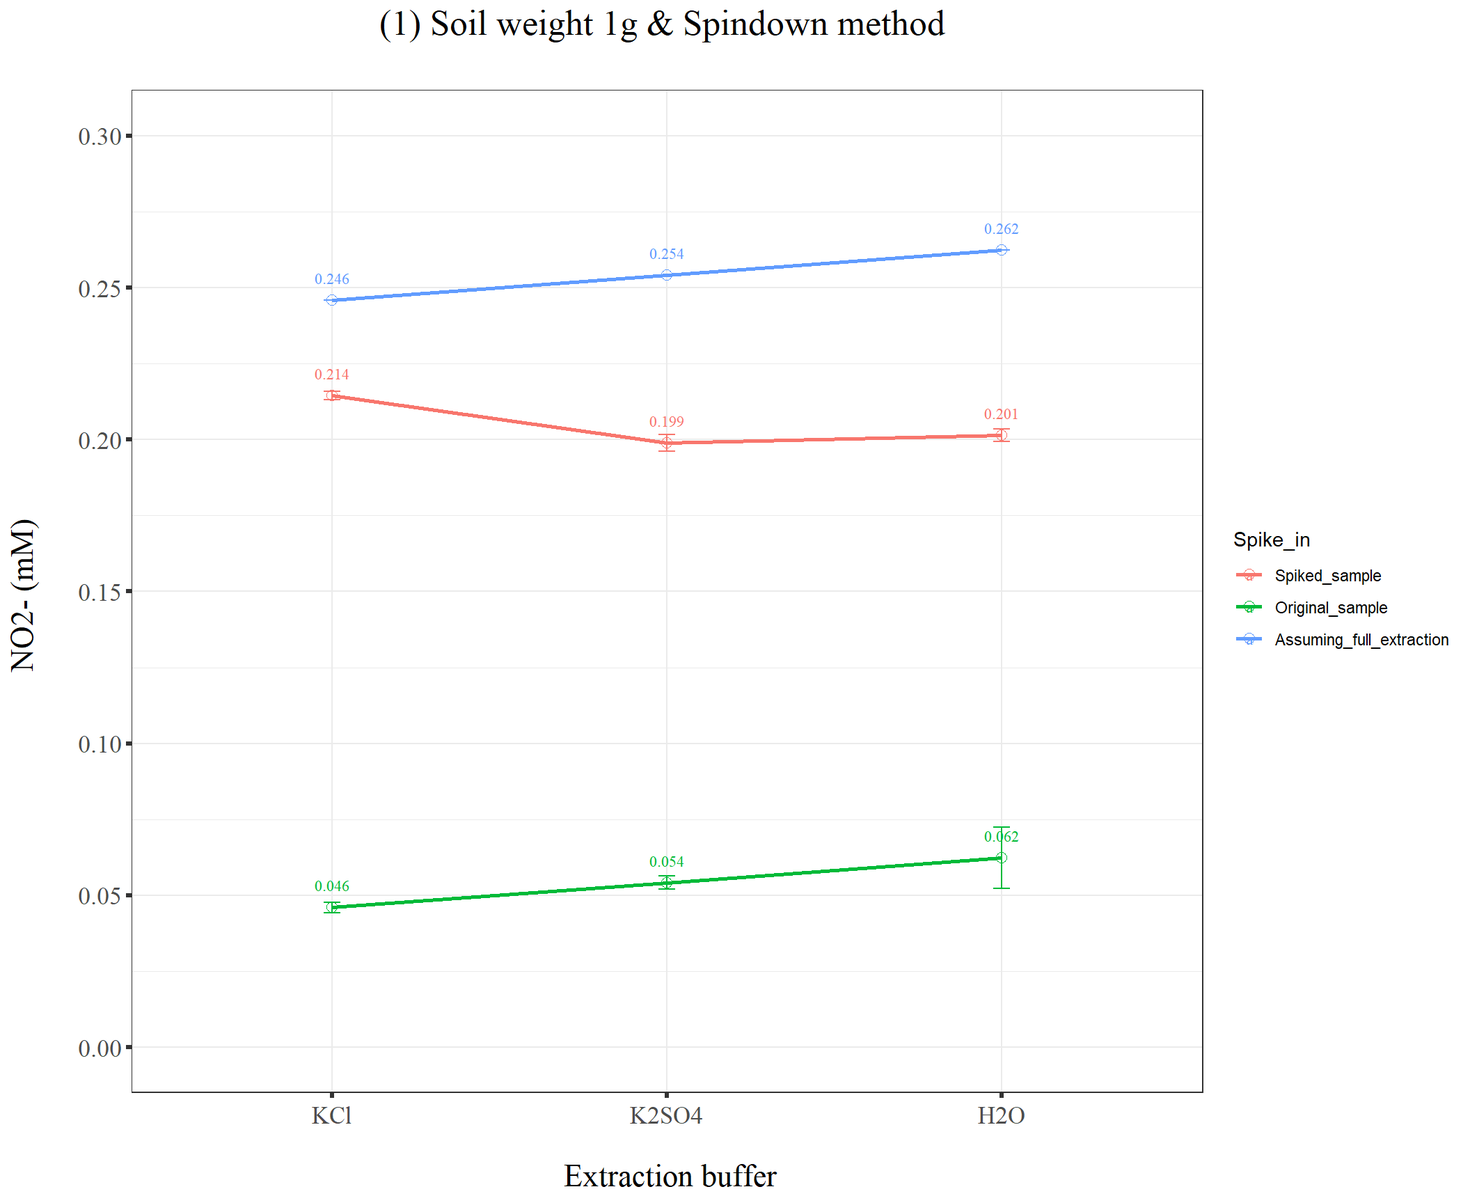
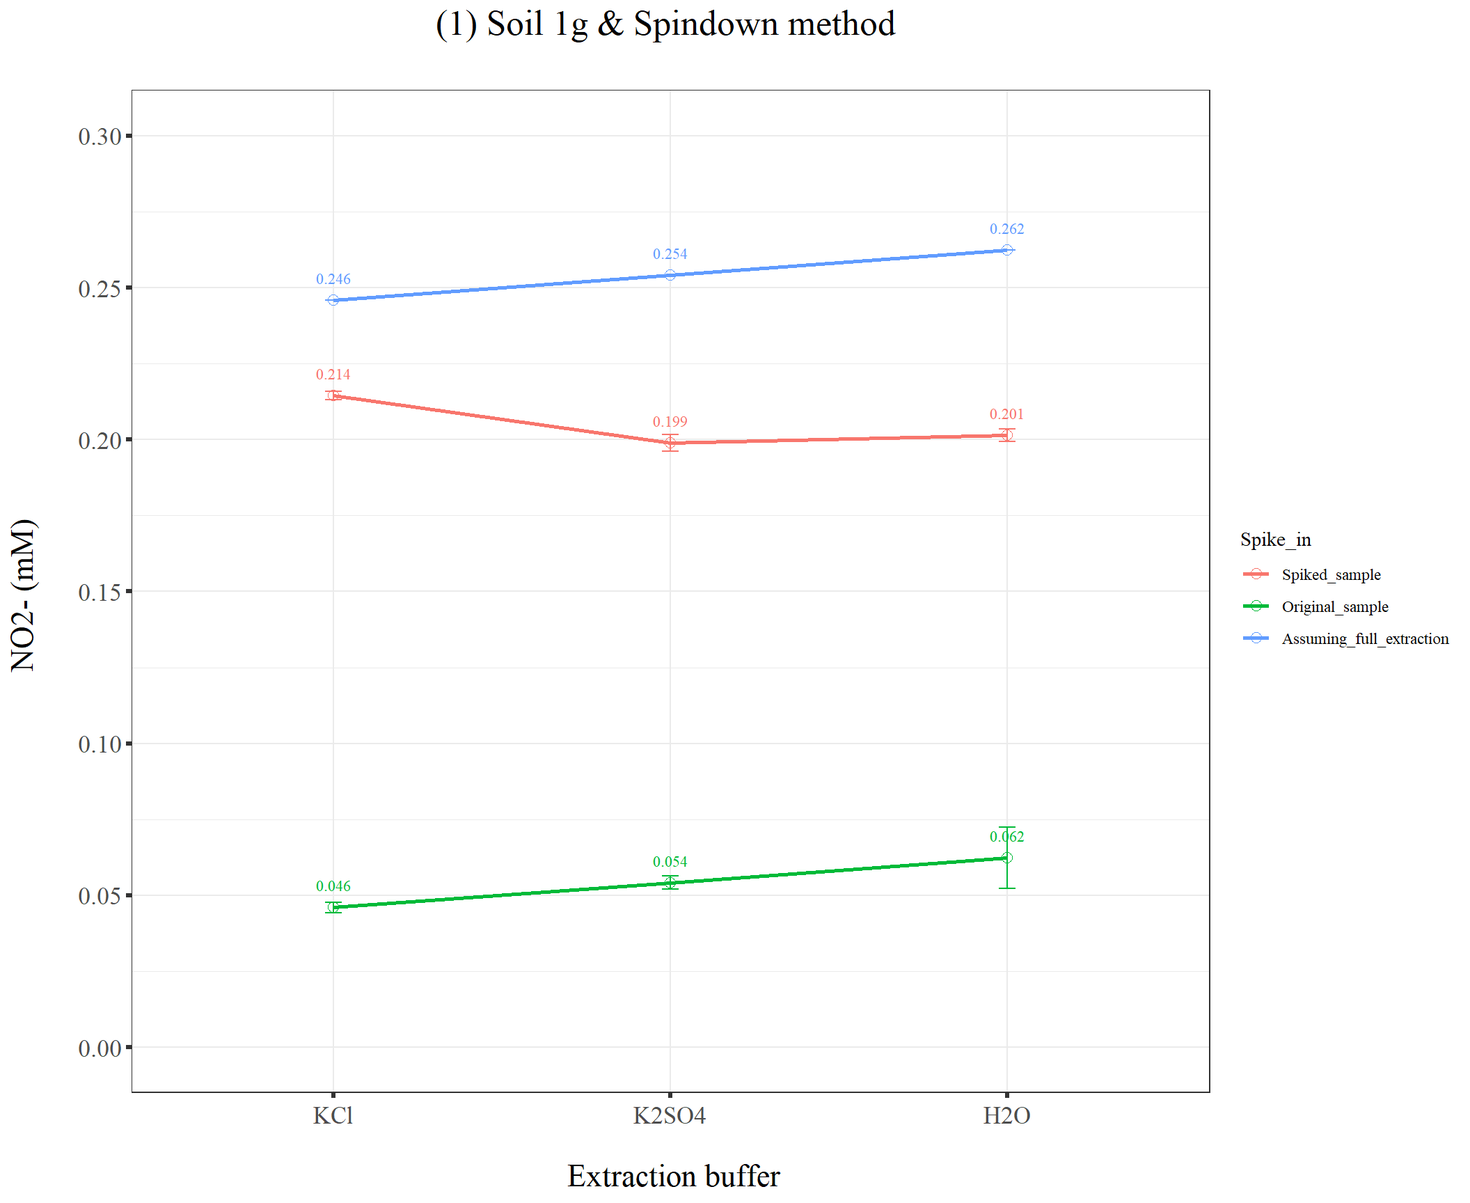
Build site.

diff --git a/docs/Soil_extraction_method_Griess.html b/docs/Soil_extraction_method_Griess.html
@@ -476,25 +476,32 @@ This reproducible <a href="http://rmarkdown.rstudio.com">R Markdown</a> analysis
 <div class="panel panel-default">
 <div class="panel-heading">
 <p class="panel-title">
-<a data-toggle="collapse" data-parent="#workflowr-checks" href="#strongRepositoryversionstrongahrefhttpsgithubcomKiseokUchicagoDenitvisualizationRtree61dee2a64ccfe50a1972f31b677294dcd677fd09targetblank61dee2aa"> <span class="glyphicon glyphicon-ok text-success" aria-hidden="true"></span> <strong>Repository version:</strong> <a href="https://github.com/KiseokUchicago/Denit_visualization_R/tree/61dee2a64ccfe50a1972f31b677294dcd677fd09" target="_blank">61dee2a</a> </a>
+<a data-toggle="collapse" data-parent="#workflowr-checks" href="#strongRepositoryversionstrongahrefhttpsgithubcomKiseokUchicagoDenitvisualizationRtree715b4adcee0ef2004090a8a02ad2d9f29b4a2e40targetblank715b4ada"> <span class="glyphicon glyphicon-ok text-success" aria-hidden="true"></span> <strong>Repository version:</strong> <a href="https://github.com/KiseokUchicago/Denit_visualization_R/tree/715b4adcee0ef2004090a8a02ad2d9f29b4a2e40" target="_blank">715b4ad</a> </a>
 </p>
 </div>
[2 lines of base64/hex data omitted]
 <div class="panel-body">
 <p>
 Great! You are using Git for version control. Tracking code development and connecting the code version to the results is critical for reproducibility.
 </p>
 <p>
-The results in this page were generated with repository version <a href="https://github.com/KiseokUchicago/Denit_visualization_R/tree/61dee2a64ccfe50a1972f31b677294dcd677fd09" target="_blank">61dee2a</a>. See the <em>Past versions</em> tab to see a history of the changes made to the R Markdown and HTML files.
+The results in this page were generated with repository version <a href="https://github.com/KiseokUchicago/Denit_visualization_R/tree/715b4adcee0ef2004090a8a02ad2d9f29b4a2e40" target="_blank">715b4ad</a>. See the <em>Past versions</em> tab to see a history of the changes made to the R Markdown and HTML files.
 </p>
 <p>
 Note that you need to be careful to ensure that all relevant files for the analysis have been committed to Git prior to generating the results (you can use <code>wflow_publish</code> or <code>wflow_git_commit</code>). workflowr only checks the R Markdown file, but you know if there are other scripts or data files that it depends on. Below is the status of the Git repository when the results were generated:
 </p>
 <pre><code>
 Ignored files:
+    Ignored:    .Rhistory
     Ignored:    .Rproj.user/
 
 Untracked files:
+    Untracked:  Rplot.pdf
+    Untracked:  Soil0.1g_filter.pdf
+    Untracked:  Soil0.1g_spindown_7_10.pdf
+    Untracked:  Soil1g_filter_7_10.pdf
+    Untracked:  Soil1g_spindown_7_10.pdf
+    Untracked:  Soil1g_whatman_7_10.pdf
     Untracked:  data/210922_Griess_sample_plate1-investigating.xlsx
     Untracked:  data/210922_Griess_sample_plate1.xlsx
     Untracked:  data/dry_weight_curve(9.5.21).xlsx
@@ -541,6 +548,40 @@ Message
 </tr>
 </thead>
 <tbody>
+<tr>
+<td>
+Rmd
+</td>
+<td>
+<a href="https://github.com/KiseokUchicago/Denit_visualization_R/blob/715b4adcee0ef2004090a8a02ad2d9f29b4a2e40/analysis/Soil_extraction_method_Griess.Rmd" target="_blank">715b4ad</a>
+</td>
+<td>
+KiseokUchicago
+</td>
+<td>
+2021-09-24
+</td>
+<td>
+wflow_publish(“analysis/Soil_extraction_method_Griess.Rmd”)
+</td>
+</tr>
+<tr>
+<td>
+html
+</td>
+<td>
+<a href="https://rawcdn.githack.com/KiseokUchicago/Denit_visualization_R/39bfa16bde709732443756bcff96cfd5ed50877a/docs/Soil_extraction_method_Griess.html" target="_blank">39bfa16</a>
+</td>
+<td>
+KiseokUchicago
+</td>
+<td>
+2021-09-24
+</td>
+<td>
+Build site.
+</td>
+</tr>
 <tr>
 <td>
 Rmd
@@ -656,6 +697,7 @@ library(stringr)
 
 ## theme for ggplot
 mytheme &lt;- theme_bw() + 
+  theme(text = element_text(family=&quot;serif&quot;)) +
   theme(plot.title = element_text(size = 19,hjust = 0.5, family=&quot;serif&quot;)) + 
   theme(axis.title.x = element_text(size = 17,hjust = 0.5, family=&quot;serif&quot;)) + 
   theme(axis.title.y = element_text(size = 17,hjust = 0.5, family=&quot;serif&quot;)) + 
@@ -666,6 +708,7 @@ mytheme &lt;- theme_bw() +
   theme(axis.ticks = element_line(size = 1.1))
 
 mytheme_2d &lt;- theme_bw() + 
+  theme(text = element_text(family=&quot;serif&quot;)) +
   theme(plot.title = element_text(size = 19,hjust = 0.5, family=&quot;serif&quot;)) + 
   theme(axis.title.x = element_text(size = 17,hjust = 0.5, family=&quot;serif&quot;)) + 
   theme(axis.title.y = element_text(size = 17,hjust = 0.5, family=&quot;serif&quot;)) + 
@@ -861,7 +904,7 @@ Levels: Spiked_sample Original_sample Assuming_full_extraction</code></pre>
 </div>
 <div id="plot-data" class="section level2">
 <h2>3. Plot data</h2>
-<p>4 graphs: (1) 1g &amp; Spindown method (2) 0.1g &amp; Spindown method (3) 1g &amp; filtered method (4) 0.1g &amp; Spindown method</p>
+<p>4 graphs: (1) Soil 1g &amp; Spindown method (2) Soil 0.1g &amp; Spindown method (3) Soil 1g &amp; filtered(0.22um) method (4) Soil 0.1g &amp; filtered(0.22um) method (5) Soil 1g &amp; Whatman no.42 paper filtered</p>
 <pre class="r"><code># First, let&#39;s see extraction efficiency soil NO2
 
 # (1) 1g &amp; Spindown method
@@ -903,28 +946,241 @@ Levels: Spiked_sample Original_sample Assuming_full_extraction</code></pre>
   ylab(&quot;NO2- (mM) \n&quot;) +
   xlab(&quot;\n Extraction buffer&quot;) +
   scale_y_continuous(breaks = seq(0,0.3,0.05), limits=c(0, 0.3))+
-  ggtitle(&quot;(1) Soil weight 1g &amp; Spindown method \n&quot;) +
+  ggtitle(&quot;(1) Soil 1g &amp; Spindown method \n&quot;) +
   # label
-  geom_text(aes(label = round(Ave_NO2_mM,3)), size = 3, vjust = -1.5, family=&quot;serif&quot;)+
+  geom_text(aes(label = round(Ave_NO2_mM,3)), size = 3, vjust = -1.5, family=&quot;serif&quot;, show.legend = FALSE)+
   mytheme_2d</code></pre>
 <p><img src="figure/Soil_extraction_method_Griess.Rmd/unnamed-chunk-4-1.png" width="1056" style="display: block; margin: auto;" /></p>
-<pre class="r"><code># (2) 
-
-
-# (1) plot
-ggplot(df_extract, aes(x=Method, y=pH, color=Solution, group=Solution)) +
+<pre class="r"><code># (2) Soil 0.1g &amp; Spindown method
+colnames(df_NO2NO3)</code></pre>
+<pre><code> [1] &quot;Sample&quot;        &quot;Buffer&quot;        &quot;Soil_weight&quot;   &quot;Method&quot;       
+ [5] &quot;Spike_in&quot;      &quot;Ave_NO2_mM&quot;    &quot;Std_NO2_mM&quot;    &quot;Ave_NO2NO3_mM&quot;
+ [9] &quot;Std_NO2NO3_mM&quot; &quot;Ave_NO3_mM&quot;    &quot;Std_NO3_mM&quot;   </code></pre>
+<pre class="r"><code>df_spin0.1 &lt;- df_NO2NO3 %&gt;% filter(Method == &quot;Spindown&quot;, Soil_weight ==0.1)
+dim(df_spin0.1)</code></pre>
+<pre><code>[1]  9 11</code></pre>
+<pre class="r"><code>head(df_spin0.1)</code></pre>
+<pre><code># A tibble: 6 x 11
+  Sample  Buffer Soil_weight Method Spike_in Ave_NO2_mM Std_NO2_mM Ave_NO2NO3_mM
+  &lt;chr&gt;   &lt;fct&gt;        &lt;dbl&gt; &lt;chr&gt;  &lt;fct&gt;         &lt;dbl&gt;      &lt;dbl&gt;         &lt;dbl&gt;
+1 H2O_0.~ H2O            0.1 Spind~ Origina~     0.0568   0.00101          0.165
+2 H2O_0.~ H2O            0.1 Spind~ Spiked_~     0.211    0.0125           0.503
+3 K2SO4_~ K2SO4          0.1 Spind~ Origina~     0.0561   0.00324          0.149
+4 K2SO4_~ K2SO4          0.1 Spind~ Spiked_~     0.207    0.0122           0.506
+5 KCl_0.~ KCl            0.1 Spind~ Origina~     0.0457   0.000791         0.161
+6 KCl_0.~ KCl            0.1 Spind~ Spiked_~     0.214    0.00497          0.529
+# ... with 3 more variables: Std_NO2NO3_mM &lt;dbl&gt;, Ave_NO3_mM &lt;dbl&gt;,
+#   Std_NO3_mM &lt;dbl&gt;</code></pre>
+<pre class="r"><code>df_spin0.1$Spike_in</code></pre>
+<pre><code>[1] Original_sample          Spiked_sample            Original_sample         
+[4] Spiked_sample            Original_sample          Spiked_sample           
+[7] Assuming_full_extraction Assuming_full_extraction Assuming_full_extraction
+Levels: Spiked_sample Original_sample Assuming_full_extraction</code></pre>
+<pre class="r"><code>df_spin0.1 %&gt;% filter(Spike_in == &quot;Assuming_full_extraction&quot;)</code></pre>
+<pre><code># A tibble: 3 x 11
+  Sample  Buffer Soil_weight Method Spike_in Ave_NO2_mM Std_NO2_mM Ave_NO2NO3_mM
+  &lt;chr&gt;   &lt;fct&gt;        &lt;dbl&gt; &lt;chr&gt;  &lt;fct&gt;         &lt;dbl&gt;      &lt;dbl&gt;         &lt;dbl&gt;
+1 H2O_0.~ H2O            0.1 Spind~ Assumin~      0.257          0         0.565
+2 K2SO4_~ K2SO4          0.1 Spind~ Assumin~      0.256          0         0.549
+3 KCl_0.~ KCl            0.1 Spind~ Assumin~      0.246          0         0.561
+# ... with 3 more variables: Std_NO2NO3_mM &lt;dbl&gt;, Ave_NO3_mM &lt;dbl&gt;,
+#   Std_NO3_mM &lt;dbl&gt;</code></pre>
+<pre class="r"><code>df_spin0.1 %&gt;% filter(Spike_in == &quot;Spiked_sample&quot;)</code></pre>
+<pre><code># A tibble: 3 x 11
+  Sample  Buffer Soil_weight Method Spike_in Ave_NO2_mM Std_NO2_mM Ave_NO2NO3_mM
+  &lt;chr&gt;   &lt;fct&gt;        &lt;dbl&gt; &lt;chr&gt;  &lt;fct&gt;         &lt;dbl&gt;      &lt;dbl&gt;         &lt;dbl&gt;
+1 H2O_0.~ H2O            0.1 Spind~ Spiked_~      0.211    0.0125          0.503
+2 K2SO4_~ K2SO4          0.1 Spind~ Spiked_~      0.207    0.0122          0.506
+3 KCl_0.~ KCl            0.1 Spind~ Spiked_~      0.214    0.00497         0.529
+# ... with 3 more variables: Std_NO2NO3_mM &lt;dbl&gt;, Ave_NO3_mM &lt;dbl&gt;,
+#   Std_NO3_mM &lt;dbl&gt;</code></pre>
+<pre class="r"><code>ggplot(df_spin0.1, aes(x=Buffer, y=Ave_NO2_mM, color=Spike_in, group=Spike_in)) +
   geom_point(size=2.5, shape=21) +
   geom_line(size=1)+
+  geom_errorbar(aes(ymin=Ave_NO2_mM - Std_NO2_mM, ymax=Ave_NO2_mM + Std_NO2_mM), width=.05)+
   scale_fill_brewer(palette=&#39;Set2&#39;) +
-  ylab(&quot;pH \n&quot;) +
-  xlab(&quot;\n Settling method&quot;) +
-  scale_y_continuous(breaks = seq(6,7,0.05), limits=c(6.1, 7))+
-  ggtitle(&quot;pH difference by method &amp; solution \n&quot;) +
+  ylab(&quot;NO2- (mM) \n&quot;) +
+  xlab(&quot;\n Extraction buffer&quot;) +
+  scale_y_continuous(breaks = seq(0,0.3,0.05), limits=c(0, 0.3))+
+  ggtitle(&quot;(2) Soil 0.1g &amp; Spindown method \n&quot;) +
   # label
-  geom_label()+
+  geom_text(aes(label = round(Ave_NO2_mM,3)), size = 3, vjust = -1.5, family=&quot;serif&quot;, show.legend = FALSE)+
   mytheme_2d</code></pre>
-<pre><code>Error in FUN(X[[i]], ...): object &#39;Solution&#39; not found</code></pre>
 <p><img src="figure/Soil_extraction_method_Griess.Rmd/unnamed-chunk-4-2.png" width="1056" style="display: block; margin: auto;" /></p>
+<pre class="r"><code># (3) Soil 1g &amp; filtered(0.22um) method
+colnames(df_NO2NO3)</code></pre>
+<pre><code> [1] &quot;Sample&quot;        &quot;Buffer&quot;        &quot;Soil_weight&quot;   &quot;Method&quot;       
+ [5] &quot;Spike_in&quot;      &quot;Ave_NO2_mM&quot;    &quot;Std_NO2_mM&quot;    &quot;Ave_NO2NO3_mM&quot;
+ [9] &quot;Std_NO2NO3_mM&quot; &quot;Ave_NO3_mM&quot;    &quot;Std_NO3_mM&quot;   </code></pre>
+<pre class="r"><code>df_NO2NO3$Method %&gt;% unique()</code></pre>
+<pre><code>[1] &quot;Filter&quot;   &quot;Spindown&quot; &quot;Whatman&quot; </code></pre>
+<pre class="r"><code>df_filt1 &lt;- df_NO2NO3 %&gt;% filter(Method == &quot;Filter&quot;, Soil_weight ==1)
+dim(df_filt1)</code></pre>
+<pre><code>[1]  9 11</code></pre>
+<pre class="r"><code>head(df_filt1)</code></pre>
+<pre><code># A tibble: 6 x 11
+  Sample  Buffer Soil_weight Method Spike_in Ave_NO2_mM Std_NO2_mM Ave_NO2NO3_mM
+  &lt;chr&gt;   &lt;fct&gt;        &lt;dbl&gt; &lt;chr&gt;  &lt;fct&gt;         &lt;dbl&gt;      &lt;dbl&gt;         &lt;dbl&gt;
+1 H2O_1g~ H2O              1 Filter Origina~     0.0437   0.000412         0.161
+2 H2O_1g~ H2O              1 Filter Spiked_~     0.225    0.00466          0.535
+3 K2SO4_~ K2SO4            1 Filter Origina~     0.0398   0.00105          0.163
+4 K2SO4_~ K2SO4            1 Filter Spiked_~     0.227    0.0111           0.535
+5 KCl_1g~ KCl              1 Filter Origina~     0.0328   0.00114          0.157
+6 KCl_1g~ KCl              1 Filter Spiked_~     0.233    0.00288          0.550
+# ... with 3 more variables: Std_NO2NO3_mM &lt;dbl&gt;, Ave_NO3_mM &lt;dbl&gt;,
+#   Std_NO3_mM &lt;dbl&gt;</code></pre>
+<pre class="r"><code>df_filt1$Spike_in</code></pre>
+<pre><code>[1] Original_sample          Spiked_sample            Original_sample         
+[4] Spiked_sample            Original_sample          Spiked_sample           
+[7] Assuming_full_extraction Assuming_full_extraction Assuming_full_extraction
+Levels: Spiked_sample Original_sample Assuming_full_extraction</code></pre>
+<pre class="r"><code>df_filt1 %&gt;% filter(Spike_in == &quot;Assuming_full_extraction&quot;)</code></pre>
+<pre><code># A tibble: 3 x 11
+  Sample  Buffer Soil_weight Method Spike_in Ave_NO2_mM Std_NO2_mM Ave_NO2NO3_mM
+  &lt;chr&gt;   &lt;fct&gt;        &lt;dbl&gt; &lt;chr&gt;  &lt;fct&gt;         &lt;dbl&gt;      &lt;dbl&gt;         &lt;dbl&gt;
+1 H2O_1g~ H2O              1 Filter Assumin~      0.244          0         0.561
+2 K2SO4_~ K2SO4            1 Filter Assumin~      0.240          0         0.563
+3 KCl_1g~ KCl              1 Filter Assumin~      0.233          0         0.557
+# ... with 3 more variables: Std_NO2NO3_mM &lt;dbl&gt;, Ave_NO3_mM &lt;dbl&gt;,
+#   Std_NO3_mM &lt;dbl&gt;</code></pre>
+<pre class="r"><code>df_filt1 %&gt;% filter(Spike_in == &quot;Spiked_sample&quot;)</code></pre>
+<pre><code># A tibble: 3 x 11
+  Sample  Buffer Soil_weight Method Spike_in Ave_NO2_mM Std_NO2_mM Ave_NO2NO3_mM
+  &lt;chr&gt;   &lt;fct&gt;        &lt;dbl&gt; &lt;chr&gt;  &lt;fct&gt;         &lt;dbl&gt;      &lt;dbl&gt;         &lt;dbl&gt;
+1 H2O_1g~ H2O              1 Filter Spiked_~      0.225    0.00466         0.535
+2 K2SO4_~ K2SO4            1 Filter Spiked_~      0.227    0.0111          0.535
+3 KCl_1g~ KCl              1 Filter Spiked_~      0.233    0.00288         0.550
+# ... with 3 more variables: Std_NO2NO3_mM &lt;dbl&gt;, Ave_NO3_mM &lt;dbl&gt;,
+#   Std_NO3_mM &lt;dbl&gt;</code></pre>
+<pre class="r"><code>ggplot(df_filt1, aes(x=Buffer, y=Ave_NO2_mM, color=Spike_in, group=Spike_in)) +
+  geom_point(size=2.5, shape=21) +
+  geom_line(size=1)+
+  geom_errorbar(aes(ymin=Ave_NO2_mM - Std_NO2_mM, ymax=Ave_NO2_mM + Std_NO2_mM), width=.05)+
+  scale_fill_brewer(palette=&#39;Set2&#39;) +
+  ylab(&quot;NO2- (mM) \n&quot;) +
+  xlab(&quot;\n Extraction buffer&quot;) +
+  scale_y_continuous(breaks = seq(0,0.3,0.05), limits=c(0, 0.3))+
+  ggtitle(&quot;(3) Soil 1g &amp; filtered (0.22um) method \n&quot;) +
+  # label
+  geom_text(aes(label = round(Ave_NO2_mM,3)), size = 3, vjust = -1.5, family=&quot;serif&quot;, show.legend = FALSE)+
+  mytheme_2d</code></pre>
+<p><img src="figure/Soil_extraction_method_Griess.Rmd/unnamed-chunk-4-3.png" width="1056" style="display: block; margin: auto;" /></p>
+<pre class="r"><code># (4) Soil 0.1g &amp; filtered(0.22um) method
+colnames(df_NO2NO3)</code></pre>
+<pre><code> [1] &quot;Sample&quot;        &quot;Buffer&quot;        &quot;Soil_weight&quot;   &quot;Method&quot;       
+ [5] &quot;Spike_in&quot;      &quot;Ave_NO2_mM&quot;    &quot;Std_NO2_mM&quot;    &quot;Ave_NO2NO3_mM&quot;
+ [9] &quot;Std_NO2NO3_mM&quot; &quot;Ave_NO3_mM&quot;    &quot;Std_NO3_mM&quot;   </code></pre>
+<pre class="r"><code>df_NO2NO3$Method %&gt;% unique()</code></pre>
+<pre><code>[1] &quot;Filter&quot;   &quot;Spindown&quot; &quot;Whatman&quot; </code></pre>
+<pre class="r"><code>df_filt0.1 &lt;- df_NO2NO3 %&gt;% filter(Method == &quot;Filter&quot;, Soil_weight ==0.1)
+dim(df_filt0.1)</code></pre>
+<pre><code>[1]  9 11</code></pre>
+<pre class="r"><code>head(df_filt0.1)</code></pre>
+<pre><code># A tibble: 6 x 11
+  Sample  Buffer Soil_weight Method Spike_in Ave_NO2_mM Std_NO2_mM Ave_NO2NO3_mM
+  &lt;chr&gt;   &lt;fct&gt;        &lt;dbl&gt; &lt;chr&gt;  &lt;fct&gt;         &lt;dbl&gt;      &lt;dbl&gt;         &lt;dbl&gt;
+1 H2O_0.~ H2O            0.1 Filter Origina~     0.0472   0.000834         0.172
+2 H2O_0.~ H2O            0.1 Filter Spiked_~     0.234    0.00536          0.526
+3 K2SO4_~ K2SO4          0.1 Filter Origina~     0.0439   0.00162          0.168
+4 K2SO4_~ K2SO4          0.1 Filter Spiked_~     0.230    0.00369          0.515
+5 KCl_0.~ KCl            0.1 Filter Origina~     0.0326   0.000163         0.161
+6 KCl_0.~ KCl            0.1 Filter Spiked_~     0.226    0.00359          0.547
+# ... with 3 more variables: Std_NO2NO3_mM &lt;dbl&gt;, Ave_NO3_mM &lt;dbl&gt;,
+#   Std_NO3_mM &lt;dbl&gt;</code></pre>
+<pre class="r"><code>df_filt0.1$Spike_in</code></pre>
+<pre><code>[1] Original_sample          Spiked_sample            Original_sample         
+[4] Spiked_sample            Original_sample          Spiked_sample           
+[7] Assuming_full_extraction Assuming_full_extraction Assuming_full_extraction
+Levels: Spiked_sample Original_sample Assuming_full_extraction</code></pre>
+<pre class="r"><code>df_filt0.1 %&gt;% filter(Spike_in == &quot;Assuming_full_extraction&quot;)</code></pre>
+<pre><code># A tibble: 3 x 11
+  Sample  Buffer Soil_weight Method Spike_in Ave_NO2_mM Std_NO2_mM Ave_NO2NO3_mM
+  &lt;chr&gt;   &lt;fct&gt;        &lt;dbl&gt; &lt;chr&gt;  &lt;fct&gt;         &lt;dbl&gt;      &lt;dbl&gt;         &lt;dbl&gt;
+1 H2O_0.~ H2O            0.1 Filter Assumin~      0.247          0         0.572
+2 K2SO4_~ K2SO4          0.1 Filter Assumin~      0.244          0         0.568
+3 KCl_0.~ KCl            0.1 Filter Assumin~      0.233          0         0.561
+# ... with 3 more variables: Std_NO2NO3_mM &lt;dbl&gt;, Ave_NO3_mM &lt;dbl&gt;,
+#   Std_NO3_mM &lt;dbl&gt;</code></pre>
+<pre class="r"><code>df_filt0.1 %&gt;% filter(Spike_in == &quot;Spiked_sample&quot;)</code></pre>
+<pre><code># A tibble: 3 x 11
+  Sample  Buffer Soil_weight Method Spike_in Ave_NO2_mM Std_NO2_mM Ave_NO2NO3_mM
+  &lt;chr&gt;   &lt;fct&gt;        &lt;dbl&gt; &lt;chr&gt;  &lt;fct&gt;         &lt;dbl&gt;      &lt;dbl&gt;         &lt;dbl&gt;
+1 H2O_0.~ H2O            0.1 Filter Spiked_~      0.234    0.00536         0.526
+2 K2SO4_~ K2SO4          0.1 Filter Spiked_~      0.230    0.00369         0.515
+3 KCl_0.~ KCl            0.1 Filter Spiked_~      0.226    0.00359         0.547
+# ... with 3 more variables: Std_NO2NO3_mM &lt;dbl&gt;, Ave_NO3_mM &lt;dbl&gt;,
+#   Std_NO3_mM &lt;dbl&gt;</code></pre>
+<pre class="r"><code>ggplot(df_filt0.1, aes(x=Buffer, y=Ave_NO2_mM, color=Spike_in, group=Spike_in)) +
+  geom_point(size=2.5, shape=21) +
+  geom_line(size=1)+
+  geom_errorbar(aes(ymin=Ave_NO2_mM - Std_NO2_mM, ymax=Ave_NO2_mM + Std_NO2_mM), width=.05)+
+  scale_fill_brewer(palette=&#39;Set2&#39;) +
+  ylab(&quot;NO2- (mM) \n&quot;) +
+  xlab(&quot;\n Extraction buffer&quot;) +
+  scale_y_continuous(breaks = seq(0,0.3,0.05), limits=c(0, 0.3))+
+  ggtitle(&quot;(4) Soil 0.1g &amp; filtered (0.22um) method \n&quot;) +
+  # label
+  geom_text(aes(label = round(Ave_NO2_mM,3)), size = 3, vjust = -1.5, family=&quot;serif&quot;, show.legend = FALSE)+
+  mytheme_2d</code></pre>
+<p><img src="figure/Soil_extraction_method_Griess.Rmd/unnamed-chunk-4-4.png" width="1056" style="display: block; margin: auto;" /></p>
+<pre class="r"><code># (5) Soil 1g &amp; Whatman no.42 paper filtered
+colnames(df_NO2NO3)</code></pre>
+<pre><code> [1] &quot;Sample&quot;        &quot;Buffer&quot;        &quot;Soil_weight&quot;   &quot;Method&quot;       
+ [5] &quot;Spike_in&quot;      &quot;Ave_NO2_mM&quot;    &quot;Std_NO2_mM&quot;    &quot;Ave_NO2NO3_mM&quot;
+ [9] &quot;Std_NO2NO3_mM&quot; &quot;Ave_NO3_mM&quot;    &quot;Std_NO3_mM&quot;   </code></pre>
+<pre class="r"><code>df_NO2NO3$Method %&gt;% unique()</code></pre>
+<pre><code>[1] &quot;Filter&quot;   &quot;Spindown&quot; &quot;Whatman&quot; </code></pre>
+<pre class="r"><code>df_what1 &lt;- df_NO2NO3 %&gt;% filter(Method == &quot;Whatman&quot;, Soil_weight ==1)
+dim(df_what1)</code></pre>
+<pre><code>[1]  9 11</code></pre>
+<pre class="r"><code>head(df_what1)</code></pre>
+<pre><code># A tibble: 6 x 11
+  Sample  Buffer Soil_weight Method Spike_in Ave_NO2_mM Std_NO2_mM Ave_NO2NO3_mM
+  &lt;chr&gt;   &lt;fct&gt;        &lt;dbl&gt; &lt;chr&gt;  &lt;fct&gt;         &lt;dbl&gt;      &lt;dbl&gt;         &lt;dbl&gt;
+1 H2O_1g~ H2O              1 Whatm~ Origina~     0.0548   0.000477         0.160
+2 H2O_1g~ H2O              1 Whatm~ Spiked_~     0.229    0.00335          0.545
+3 K2SO4_~ K2SO4            1 Whatm~ Origina~     0.0383   0.000408         0.170
+4 K2SO4_~ K2SO4            1 Whatm~ Spiked_~     0.170    0.00330          0.467
+5 KCl_1g~ KCl              1 Whatm~ Origina~     0.0340   0.000543         0.167
+6 KCl_1g~ KCl              1 Whatm~ Spiked_~     0.158    0.00452          0.486
+# ... with 3 more variables: Std_NO2NO3_mM &lt;dbl&gt;, Ave_NO3_mM &lt;dbl&gt;,
+#   Std_NO3_mM &lt;dbl&gt;</code></pre>
+<pre class="r"><code>df_what1$Spike_in</code></pre>
+<pre><code>[1] Original_sample          Spiked_sample            Original_sample         
+[4] Spiked_sample            Original_sample          Spiked_sample           
+[7] Assuming_full_extraction Assuming_full_extraction Assuming_full_extraction
+Levels: Spiked_sample Original_sample Assuming_full_extraction</code></pre>
+<pre class="r"><code>df_what1 %&gt;% filter(Spike_in == &quot;Assuming_full_extraction&quot;)</code></pre>
+<pre><code># A tibble: 3 x 11
+  Sample  Buffer Soil_weight Method Spike_in Ave_NO2_mM Std_NO2_mM Ave_NO2NO3_mM
+  &lt;chr&gt;   &lt;fct&gt;        &lt;dbl&gt; &lt;chr&gt;  &lt;fct&gt;         &lt;dbl&gt;      &lt;dbl&gt;         &lt;dbl&gt;
+1 H2O_1g~ H2O              1 Whatm~ Assumin~      0.255          0         0.560
+2 K2SO4_~ K2SO4            1 Whatm~ Assumin~      0.238          0         0.570
+3 KCl_1g~ KCl              1 Whatm~ Assumin~      0.234          0         0.567
+# ... with 3 more variables: Std_NO2NO3_mM &lt;dbl&gt;, Ave_NO3_mM &lt;dbl&gt;,
+#   Std_NO3_mM &lt;dbl&gt;</code></pre>
+<pre class="r"><code>df_what1 %&gt;% filter(Spike_in == &quot;Spiked_sample&quot;)</code></pre>
+<pre><code># A tibble: 3 x 11
+  Sample  Buffer Soil_weight Method Spike_in Ave_NO2_mM Std_NO2_mM Ave_NO2NO3_mM
+  &lt;chr&gt;   &lt;fct&gt;        &lt;dbl&gt; &lt;chr&gt;  &lt;fct&gt;         &lt;dbl&gt;      &lt;dbl&gt;         &lt;dbl&gt;
+1 H2O_1g~ H2O              1 Whatm~ Spiked_~      0.229    0.00335         0.545
+2 K2SO4_~ K2SO4            1 Whatm~ Spiked_~      0.170    0.00330         0.467
+3 KCl_1g~ KCl              1 Whatm~ Spiked_~      0.158    0.00452         0.486
+# ... with 3 more variables: Std_NO2NO3_mM &lt;dbl&gt;, Ave_NO3_mM &lt;dbl&gt;,
+#   Std_NO3_mM &lt;dbl&gt;</code></pre>
+<pre class="r"><code>ggplot(df_what1, aes(x=Buffer, y=Ave_NO2_mM, color=Spike_in, group=Spike_in)) +
+  geom_point(size=2.5, shape=21) +
+  geom_line(size=1)+
+  geom_errorbar(aes(ymin=Ave_NO2_mM - Std_NO2_mM, ymax=Ave_NO2_mM + Std_NO2_mM), width=.05)+
+  scale_fill_brewer(palette=&#39;Set2&#39;) +
+  ylab(&quot;NO2- (mM) \n&quot;) +
+  xlab(&quot;\n Extraction buffer&quot;) +
+  scale_y_continuous(breaks = seq(0,0.3,0.05), limits=c(0, 0.3))+
+  ggtitle(&quot;(5) Soil 1g &amp; Whatman no.42 paper filtered \n&quot;) +
+  # label
+  geom_text(aes(label = round(Ave_NO2_mM,3)), size = 3, vjust = -1.5, family=&quot;serif&quot;, show.legend = FALSE)+
+  mytheme_2d</code></pre>
+<p><img src="figure/Soil_extraction_method_Griess.Rmd/unnamed-chunk-4-5.png" width="1056" style="display: block; margin: auto;" /></p>
 <br>
 <p>
 <button type="button" class="btn btn-default btn-workflowr btn-workflowr-sessioninfo" data-toggle="collapse" data-target="#workflowr-sessioninfo" style="display: block;">
